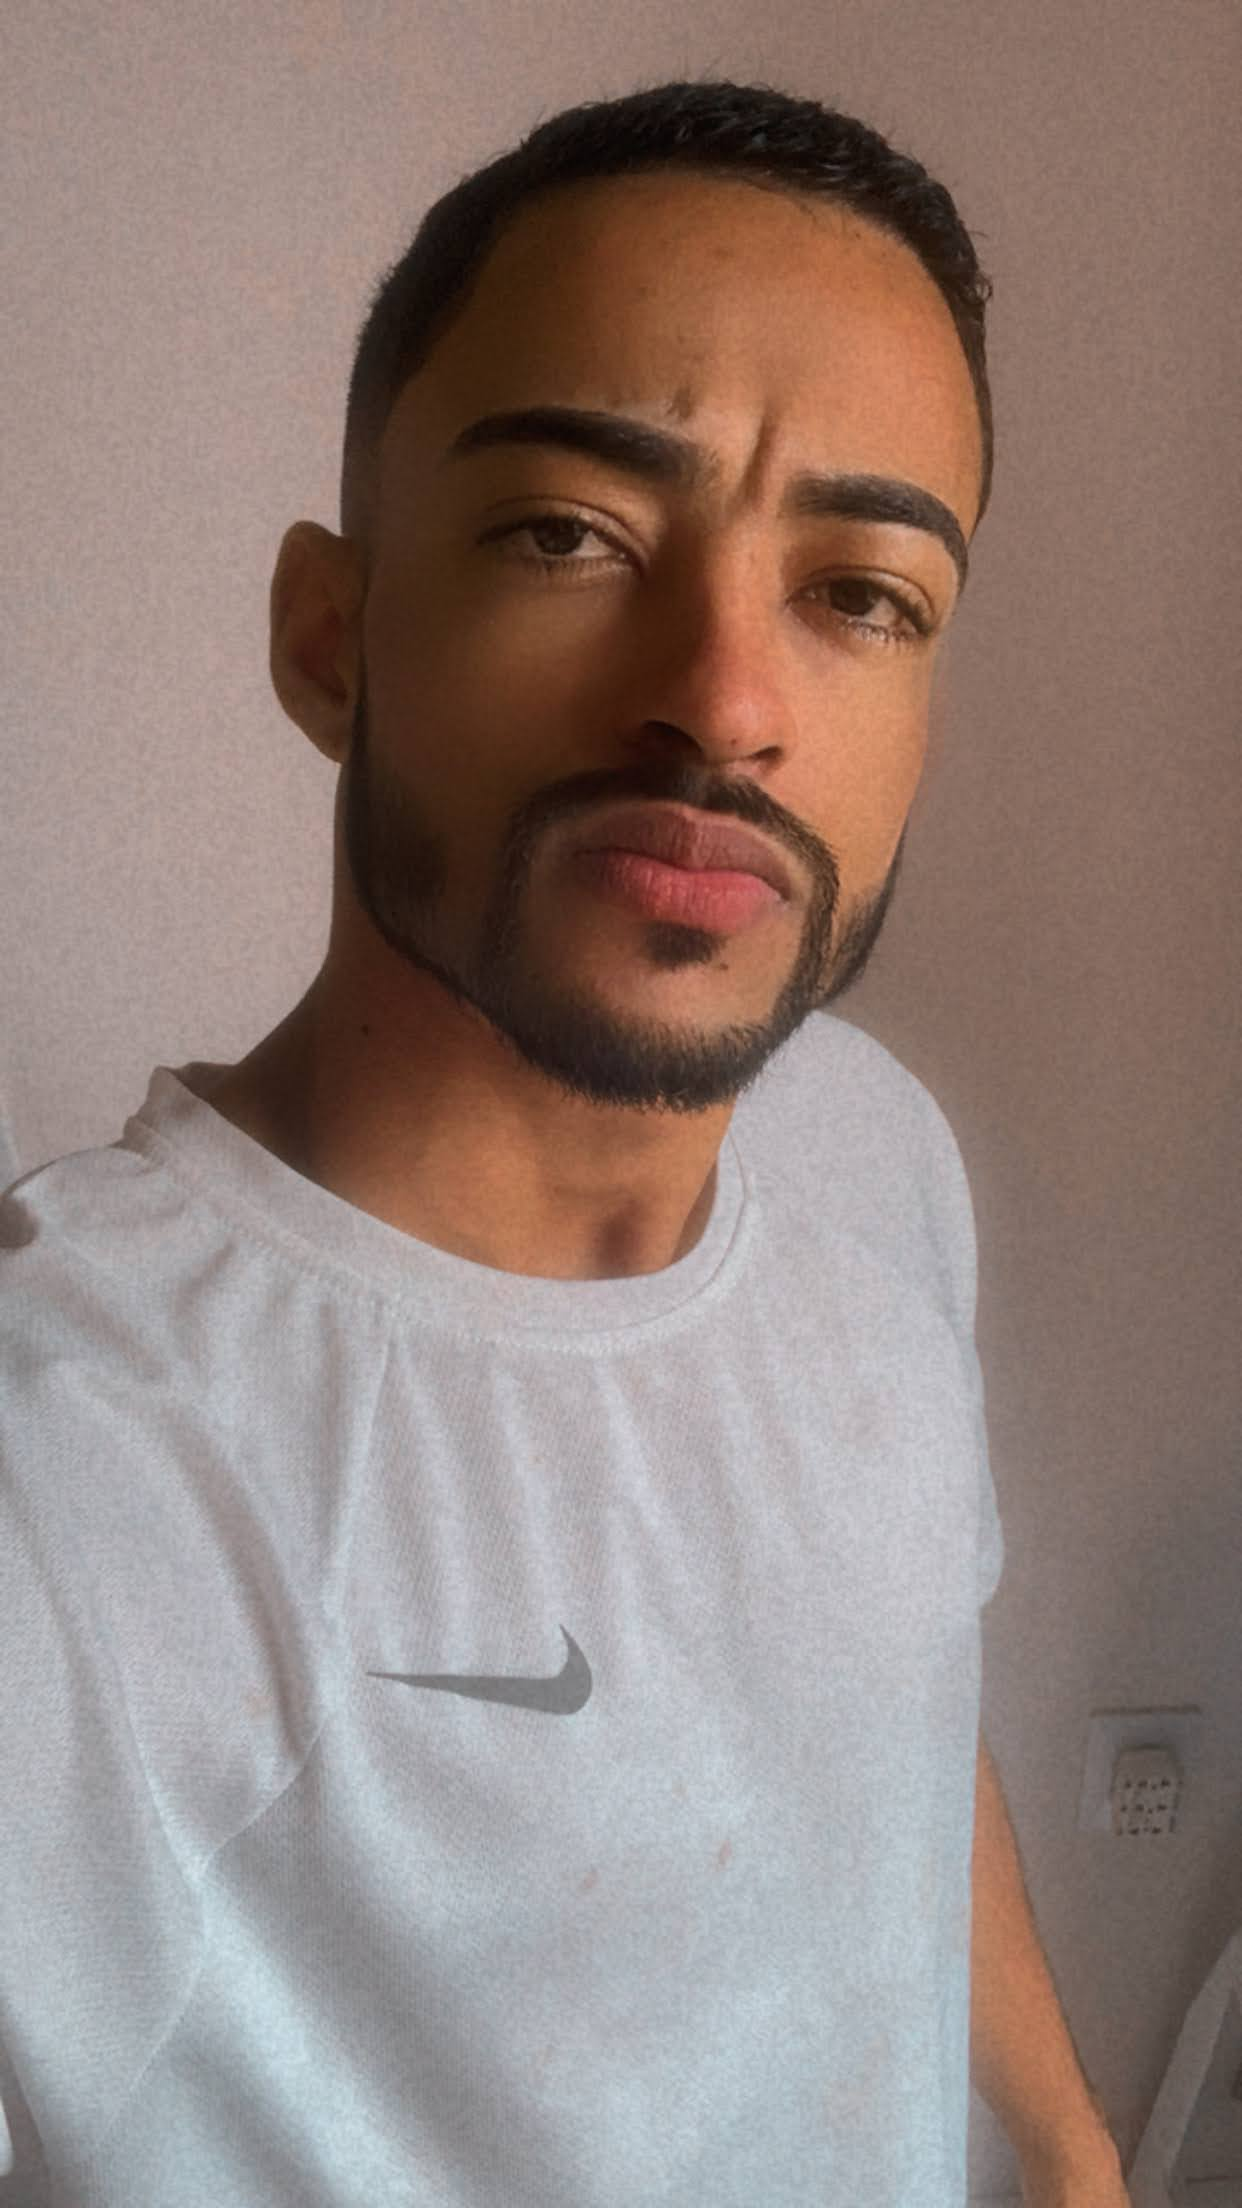
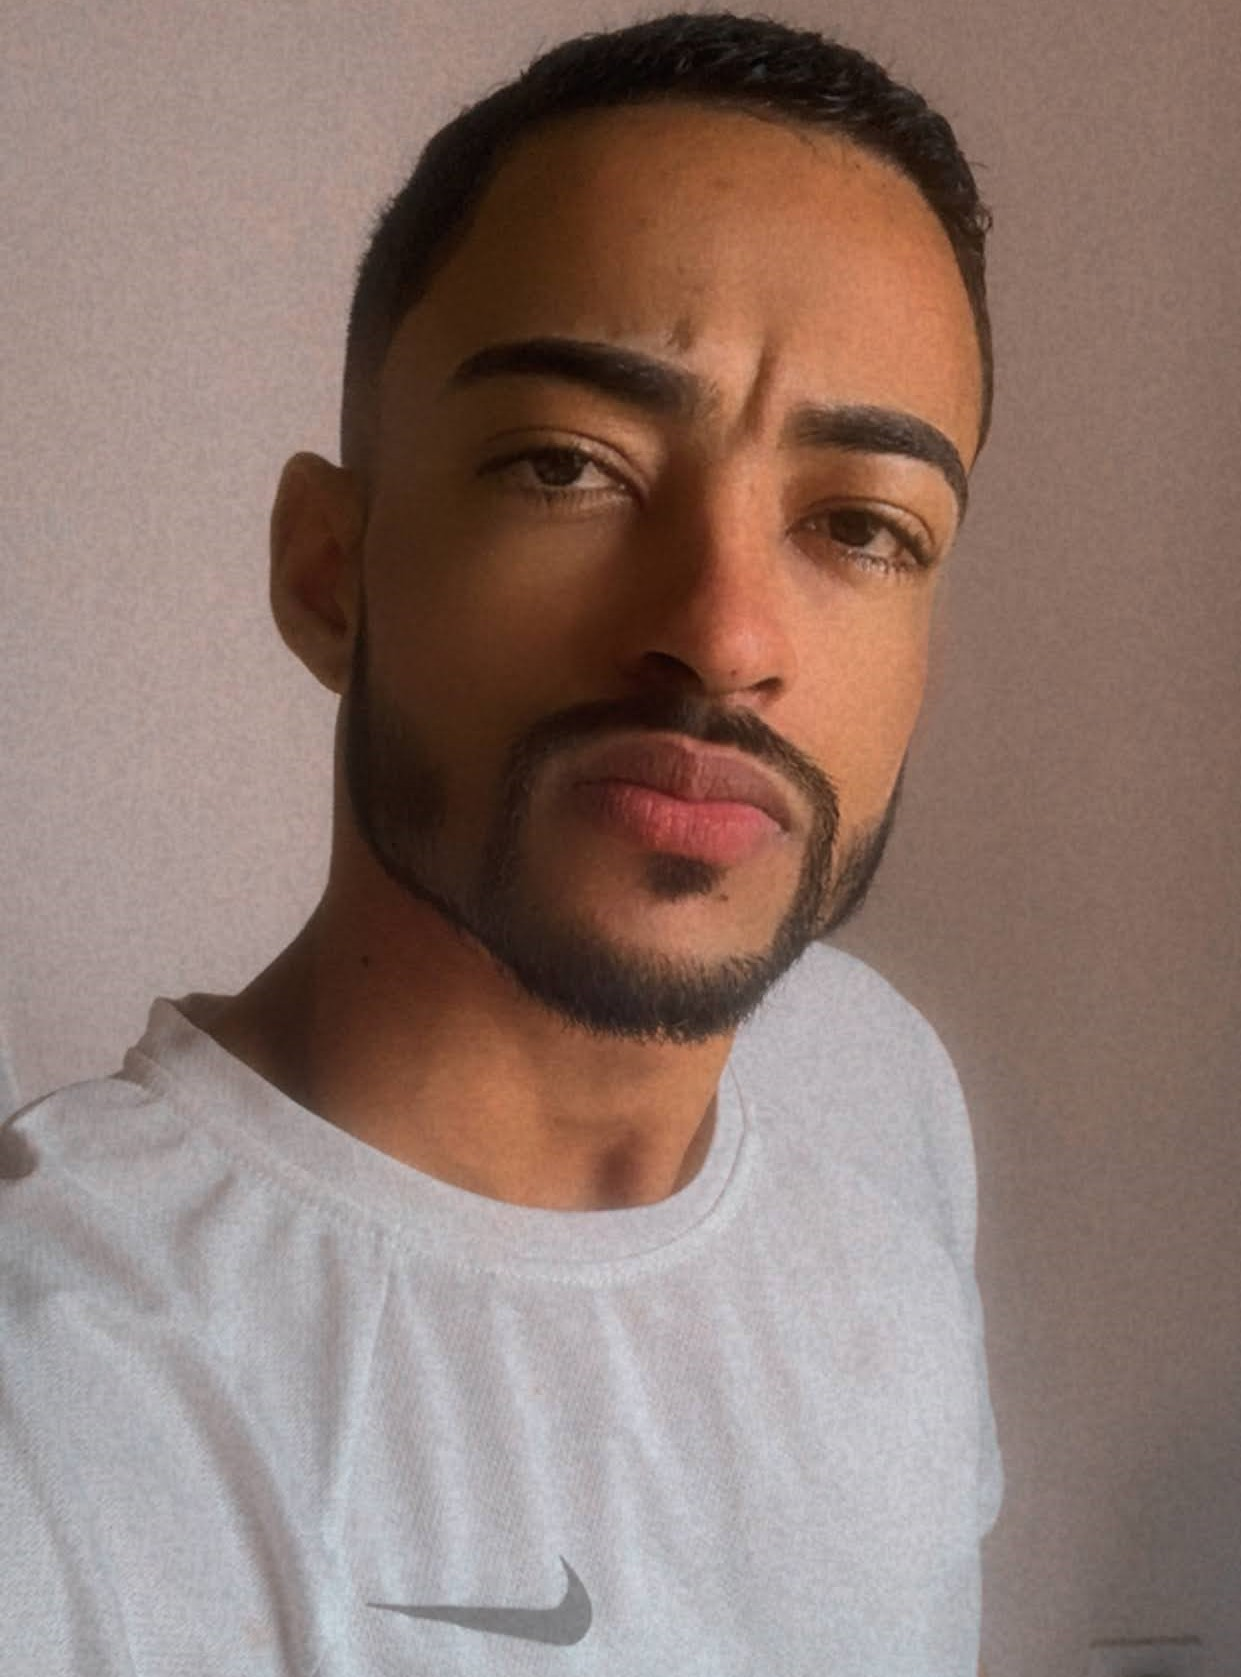
up

diff --git a/assets/css/style.css b/assets/css/style.css
@@ -103,7 +103,7 @@ main {
   text-align: center;
   place-content: center;
   padding: 20px;
-  background: url("https://github.com/deyvetWalef/portfolio/blob/main/assets/image/perfil.png?raw=true")
+  background: url("https://github.com/deyvetWalef/portfolio/blob/main/assets/image/perfil0.jpg?raw=true")
     center no-repeat;
   background-size: cover;
   border-radius: 20px;
@@ -144,7 +144,7 @@ main {
   align-content: center;
 }
 
-.titulo{
+.titulo {
   padding: 60px;
 }
 
@@ -254,4 +254,3 @@ main {
     height: 450px;
   }
 }
-
